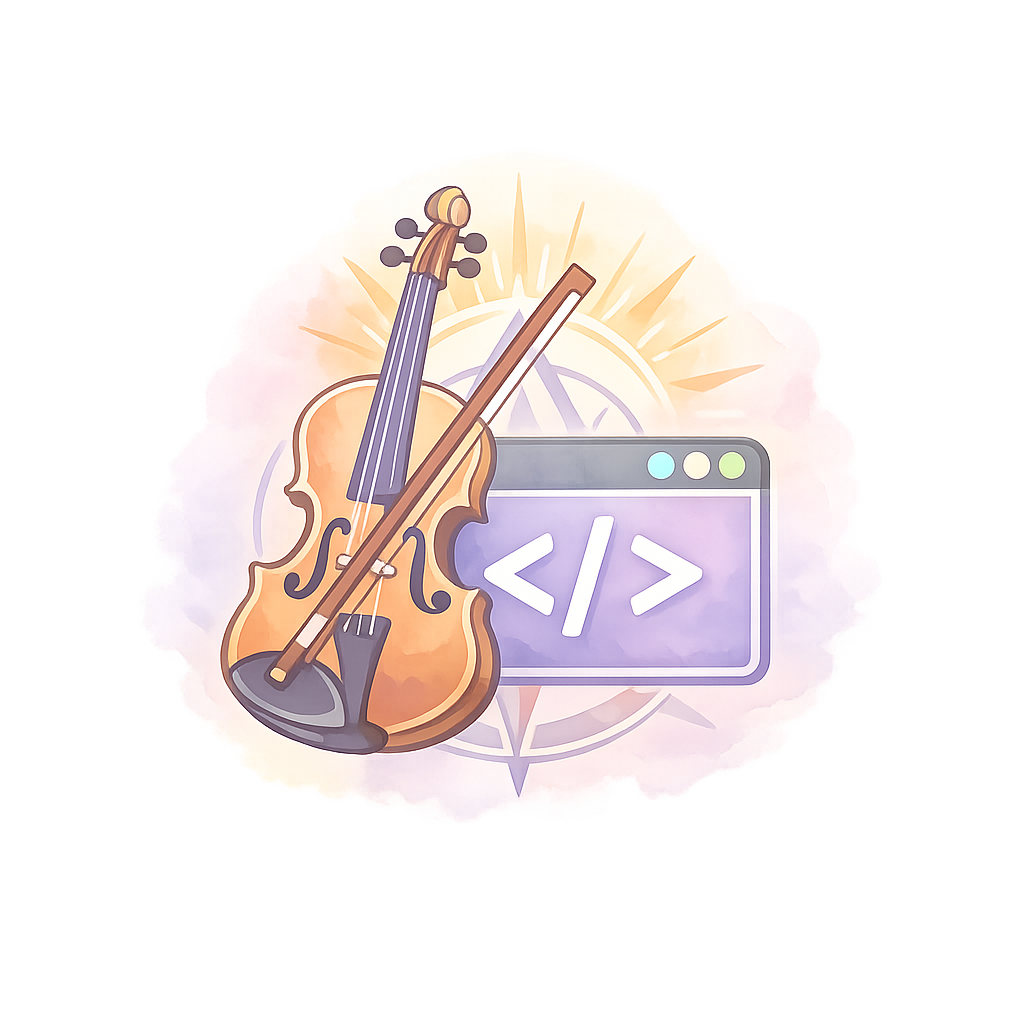
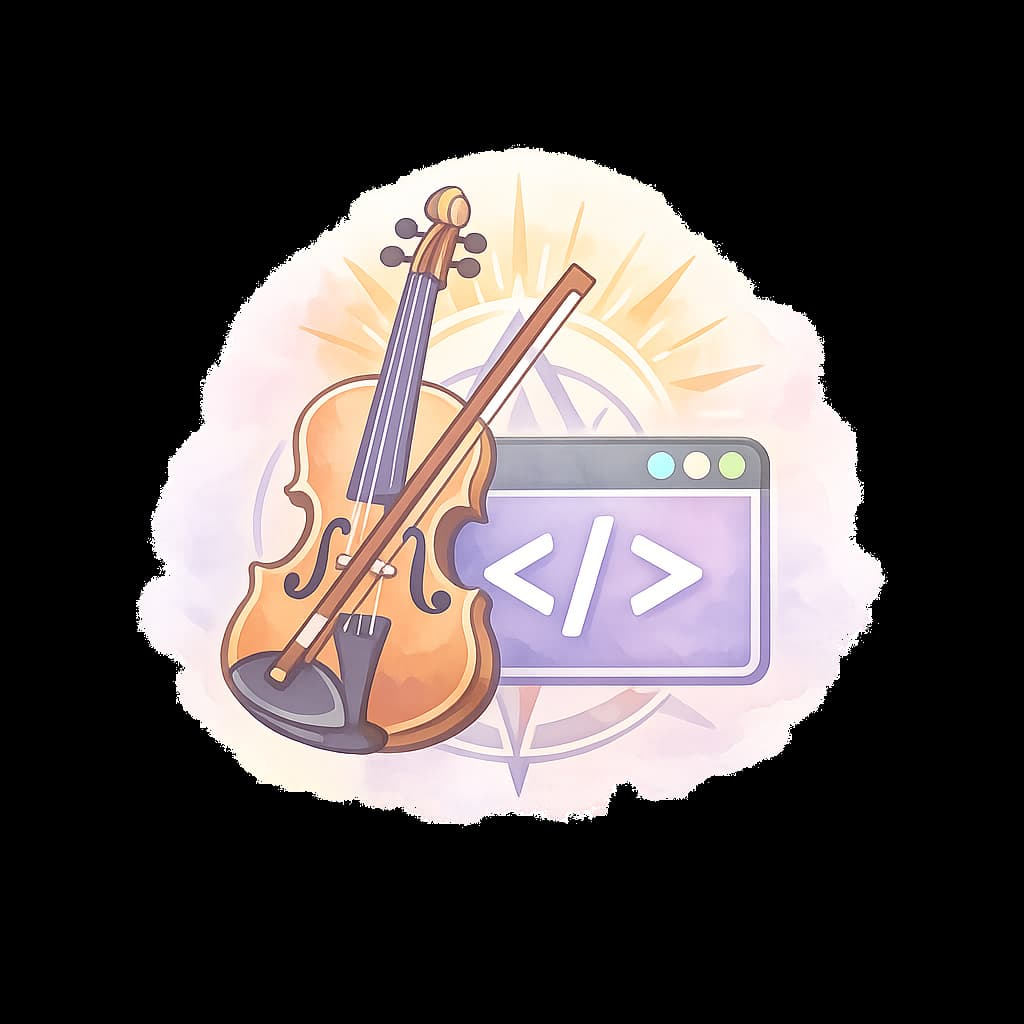
week 1 update

diff --git a/index.html b/index.html
@@ -6,11 +6,20 @@
     <meta name="viewport"
         content="width=device-width, initial-scale=1.0">
     <meta name="description"
-        content="Amanda Adams - WDD231 Course Home Page">
+        content="Course home page for Amanda Adams, highlighting web development coursework, personal projects, and progress in the BYU–Idaho WDD231 program.">
     <meta name="author" content="Amanda Adams">
     <title>Amanda Adams | WDD231</title>
+
+    <link rel="preconnect" href="https://fonts.googleapis.com">
+    <link rel="preconnect" href="https://fonts.gstatic.com"
+        crossorigin>
+    <link
+        href="https://fonts.googleapis.com/css2?family=Inter:wght@300;400;600&display=swap"
+        rel="stylesheet">
+
     <link rel="stylesheet" href="styles/small.css">
     <link rel="stylesheet" href="styles/larger.css">
+
     <script src="scripts/navigation.js" defer></script>
     <script src="scripts/date.js" defer></script>
     <script src="scripts/course.js" defer></script>
@@ -19,8 +28,9 @@
 <body>
     <header>
         <img src="images/home-icon.jpg"
-            alt="Amanda Adams personal icon for courses home page" class="icon-box">
-        <h1 class="sitename">Amanda Adams</h1>
+            alt="Amanda Adams personal icon for courses home page"
+            class="icon-box">
+
         <button id="hamburger">&#9776;</button>
         <nav id="navMenu">
             <a href="index.html" class="active">Home</a>
@@ -29,24 +39,23 @@
         </nav>
     </header>
 
-
     <main>
-        <section class="about">
-            <div class="about-text box">
-                <h2>About Me</h2>
-                <p>I work in systems and strategic, portfolio
-                    leadership and am currently strengthening my
-                    frontend and web development skills through
-                    BYU–Idaho’s certificate program. Playing violin is
-                    my main hobby outside of these areas.</p>
-            </div>
+        <h1>Amanda Adams | WDD231</h1>
 
-            <div class="about-photo box">
-                <h2>Student Photo</h2>
-                <div class="photo-frame">
-                    <img src="images/student-photo.jpg"
-                        alt="Student Photo">
-                </div>
+        <section class="box about">
+            <h2>About Me</h2>
+            <p>I work in systems and strategic, portfolio leadership
+                and am currently strengthening my
+                frontend and web development skills through
+                BYU–Idaho’s certificate program. Playing violin is
+                my main hobby outside of these areas.</p>
+        </section>
+
+        <section class="box">
+            <h2>Student Photo</h2>
+            <div class="photo-frame">
+                <img src="images/student-photo.jpg"
+                    alt="Student Photo">
             </div>
         </section>
 